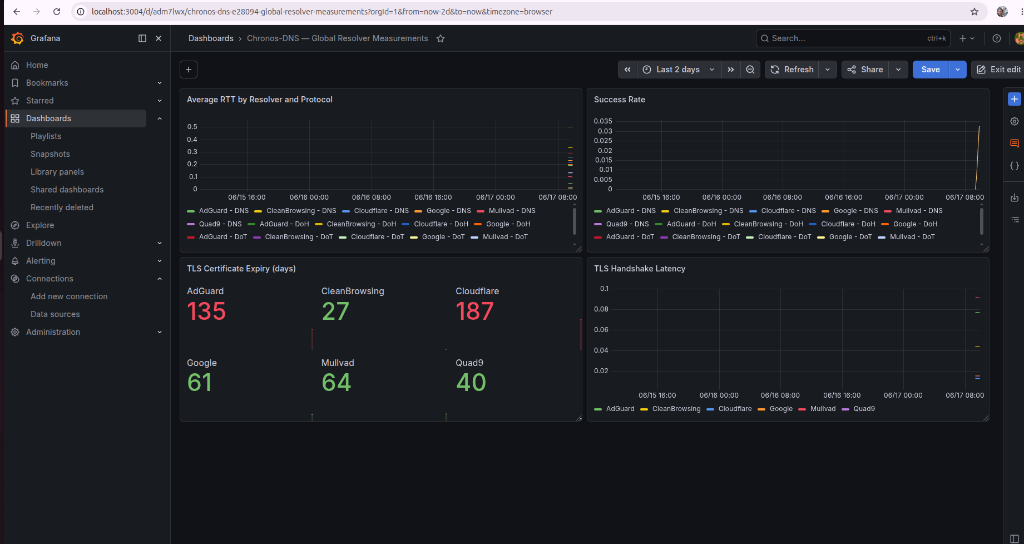
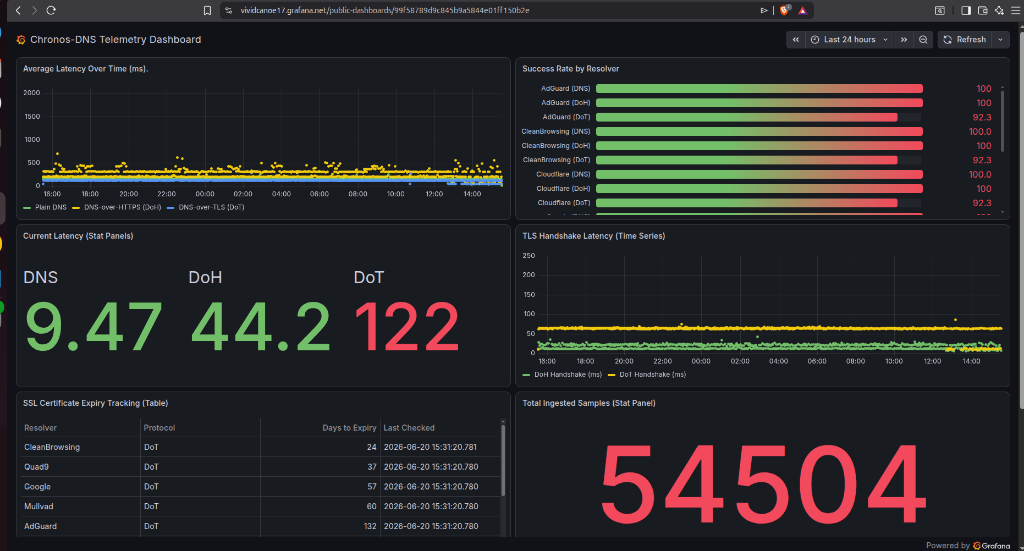
docs: update READMEs with live Grafana link, Zenodo paper, and dashboard screenshot

diff --git a/probe/README.md b/probe/README.md
@@ -13,3 +13,8 @@ pinned: false
 An automated, cloud-native distributed measurement fabric for empirical analysis of DNS-over-HTTPS (DoH) and DNS-over-TLS (DoT) deployment, latency, and cryptographic compliance across global internet environments.
 
 This node is running as a Docker Space on Hugging Face.
+
+### Live Telemetry & Research Links
+
+* 📊 **Grafana Public Dashboard:** [vividcanoe17.grafana.net/.../99f58789d9c845b9a5844e01ff150b2e](https://vividcanoe17.grafana.net/public-dashboards/99f58789d9c845b9a5844e01ff150b2e)
+* 📄 **Research Paper (Zenodo):** [zenodo.org/records/20729609](https://zenodo.org/records/20729609)

diff --git a/README.md b/README.md
@@ -16,6 +16,8 @@ research proposal submitted to the Embassy of Japan in Nepal
 Relationship to Cloud Infrastructure Reliability in Real-World Internet
 Environments"**
 
+📄 **Research Paper (Zenodo):** [zenodo.org/records/20729609](https://zenodo.org/records/20729609)
+
 ### Target Institution
 This project is designed to demonstrate research readiness for the
 **WIDE Project** (Widely Integrated Distributed Environment) — the
@@ -100,7 +102,7 @@ The following metrics are actively collected by the `chronos-dns-probe` service 
 
 ### Grafana Dashboard Visualizations
 
-Here is the live Grafana dashboard showing the global DNS resolver query metrics, including Average RTT, Success Rate, TLS Certificate Expiry, and TLS Handshake Latency:
+Here is the live, interactive **[Grafana Public Dashboard](https://vividcanoe17.grafana.net/public-dashboards/99f58789d9c845b9a5844e01ff150b2e)** showing the global DNS resolver query metrics, including Average RTT, Success Rate, TLS Certificate Expiry, TLS Handshake Latency, and Failure/Error Diagnostics:
 
 ![Grafana Dashboard](./assets/grafana_dashboard.png)
 